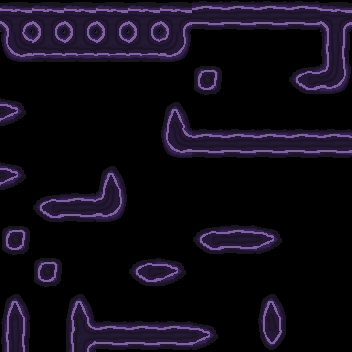
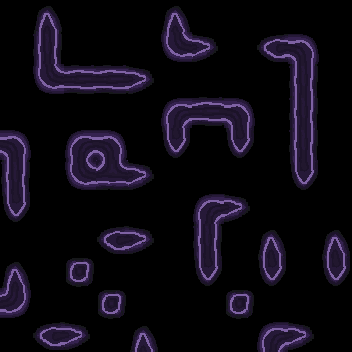
completely made the final screen, small bugfixes

diff --git a/MODULES/BEST_RESULTS/best_results.py b/MODULES/BEST_RESULTS/best_results.py
@@ -1,7 +1,5 @@
-import subprocess
 import pygame
 import sqlite3
-import json
 import sys
 from MODULES.init import CONFIG
 
@@ -23,7 +21,7 @@ class ScoreTable:
             self.image, (self.WIDTH, self.HEIGHT))
 
         self.font = pygame.font.Font(self.CONFIG['dirs']['fonts']['agat8'], 30)
-        self.back = 'BACK'
+        self.back = CONFIG['best_results']['back']
         self.back_surface = self.font.render(self.back, True, 'white')
         self.back_rect = self.back_surface.get_rect(topleft=(415, 530))
         self.back_click_area = pygame.Rect(390, 518, 120, 50)
@@ -122,7 +120,7 @@ class ScoreTable:
                 if event.type == pygame.MOUSEBUTTONDOWN:
                     if event.button == 1:
                         if self.back_click_area.collidepoint(event.pos):
-                            return 'main_menu'
+                            return 'menu'
 
             self.screen.blit(self.image, (0, 0))
             self.screen.blit(self.back_surface, self.back_rect)

diff --git a/main.py b/main.py
@@ -4,6 +4,7 @@ from MODULES.RENDER.main import main_game_loop
 from MODULES.BEST_RESULTS.best_results import ScoreTable
 from MODULES.START_SCREEN.start_screen import start_screen
 from MODULES.audio import AudioPlayer
+from MODULES.END_SCREEN.end_screen import EndScreen
 
 size = (CONFIG["pygame"]["width"], CONFIG["pygame"]["height"])
 f_size = (CONFIG["pygame"]["f_width"], CONFIG["pygame"]["f_height"])
@@ -28,12 +29,16 @@ if __name__ == "__main__":
         if flag is None or flag == "quit":
             break
 
-        if flag == "main_game":
+        if flag == "menu":
             game_flag = main_game_loop(scr, size)
             if game_flag == "quit":
                 break
         elif flag == "best_results":
             flag = ScoreTable().run(audio)
+            if flag == 'quit':
+                break
+        elif flag == 'end_screen':
+            flag = EndScreen(120).run(audio)
             if flag == 'quit':
                 break
 

diff --git a/MODULES/START_SCREEN/start_screen.py b/MODULES/START_SCREEN/start_screen.py
@@ -40,6 +40,8 @@ def start_screen(screen, size, audio):
             if event.type == pygame.KEYDOWN:
                 if event.key == pygame.K_t:
                     audio.pause_unpause_music()
+                # if event.key == pygame.K_s:
+                #     return 'end_screen'
 
             if event.type == pygame.MOUSEBUTTONDOWN:
                 if event.button == 1:

diff --git a/MODULES/audio.py b/MODULES/audio.py
@@ -25,6 +25,5 @@ class AudioPlayer:
         pygame.mixer.music.stop()
 
     def run(self, path=CONFIG["dirs"]["sounds"]["start_screen"]):
-        print("Running audio")
         self.load_music(path)
         self.play_music()
